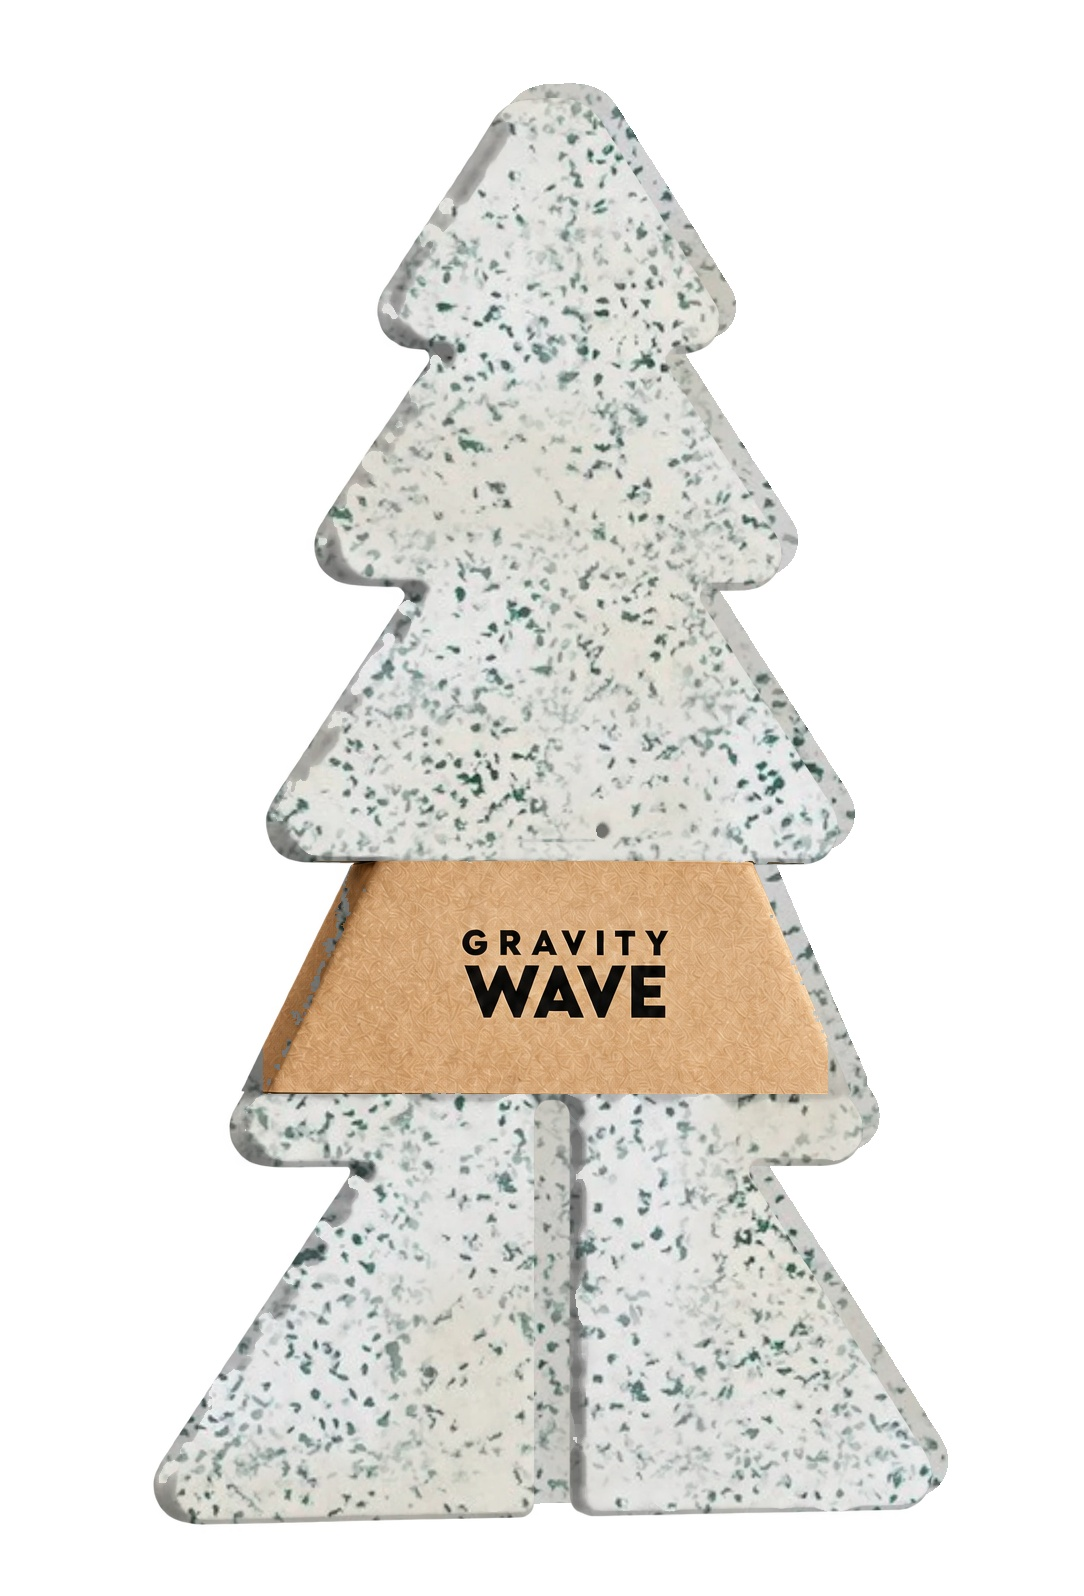
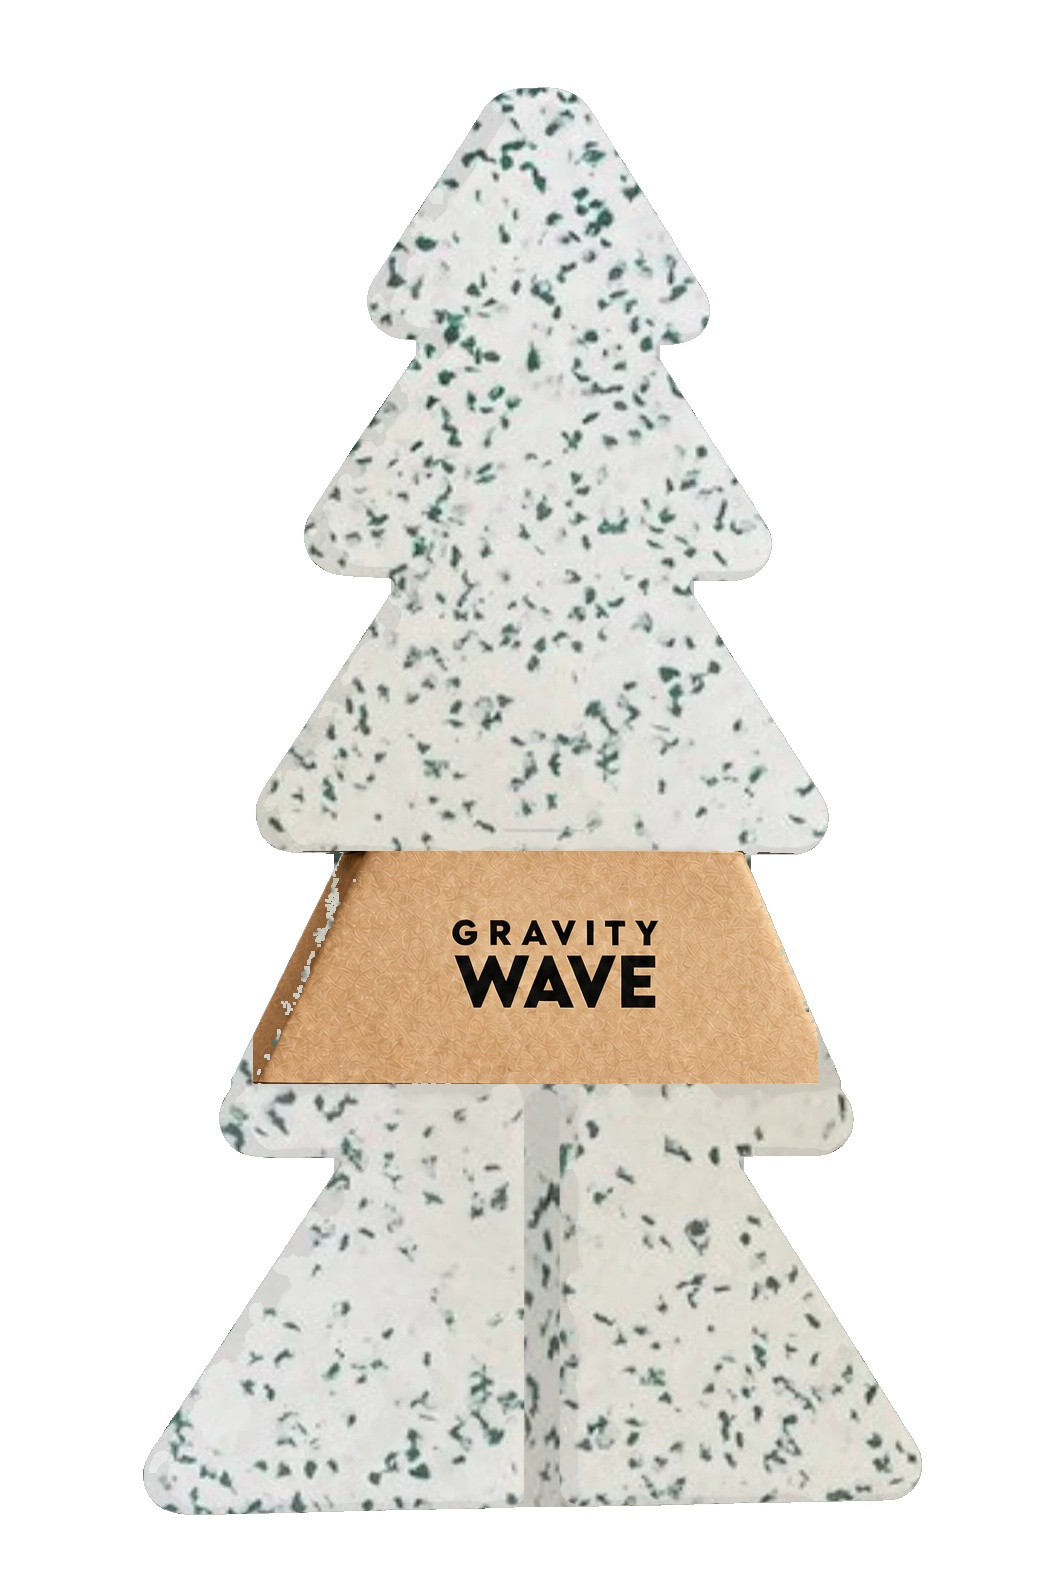
Montaje árbol v2: trasera alineada visible por la ranura, textura nítida con costura bajo la faja
Claude-Session: https://claude.ai/code/session_01LxVVLym2jGLuhArw3DJpgJ

Changed region(s): [[0.1241, 0.0311, 0.8994, 0.9638]]

diff --git a/herramientas/montaje_material_real.py b/herramientas/montaje_material_real.py
@@ -15,7 +15,7 @@ import numpy as np
 ap = argparse.ArgumentParser()
 ap.add_argument("codex"); ap.add_argument("textura"); ap.add_argument("salida")
 ap.add_argument("--escala", type=float, default=0.75)
-ap.add_argument("--offset", default="16,-14")
+ap.add_argument("--offset", default="0,0")
 ap.add_argument("--sin-trasera", action="store_true")
 ap.add_argument("--semilla", type=int, default=7)
 A = ap.parse_args()
@@ -43,7 +43,7 @@ speck = (np.array(Image.fromarray((speck * 255).astype(np.uint8)).filter(ImageFi
 base = np.percentile(lum[panel & ~speck], 60)
 lf = lum.astype(np.float32).copy(); lf[speck] = base
 Lm = np.array(Image.fromarray(lf.clip(0, 255).astype(np.uint8)).filter(ImageFilter.MedianFilter(15))).astype(np.float32)
-shade = np.clip(Lm / base, 0.5, 1.06)
+shade = np.clip(Lm / base, 0.93, 1.03)
 # Textura real, parches aleatorios fundidos (sin costuras)
 tex = Image.open(A.textura).convert("RGB")
 tex = tex.resize((int(tex.width * A.escala), int(tex.height * A.escala)), Image.LANCZOS)
